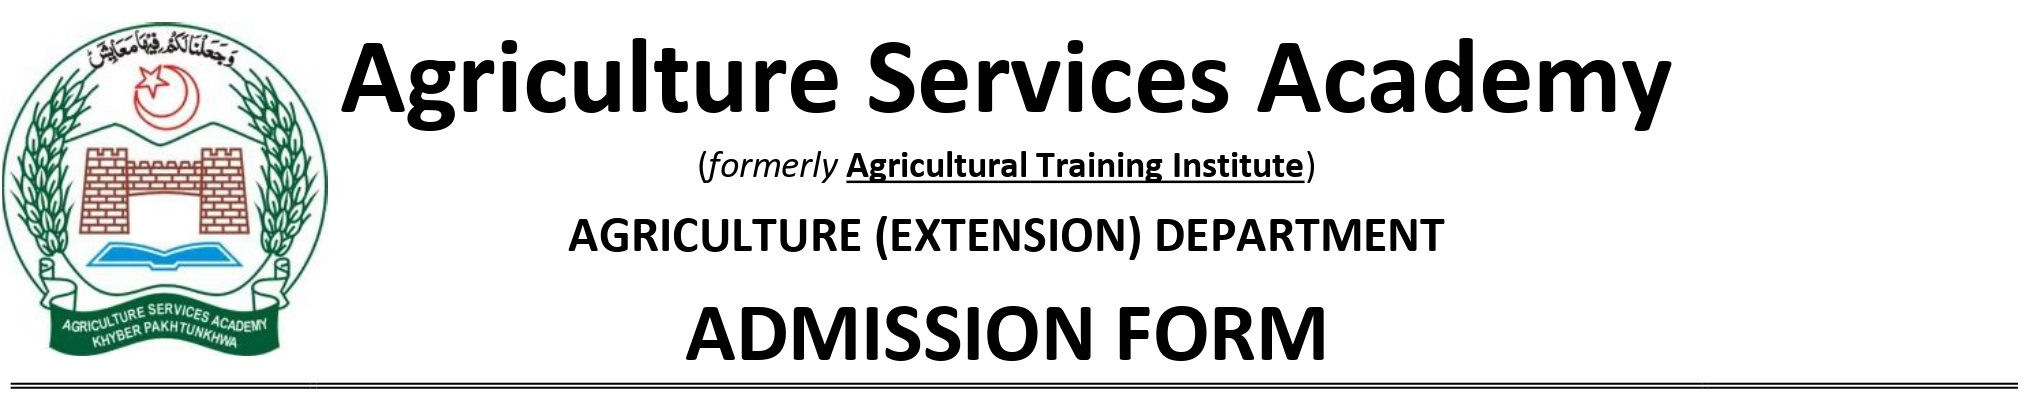
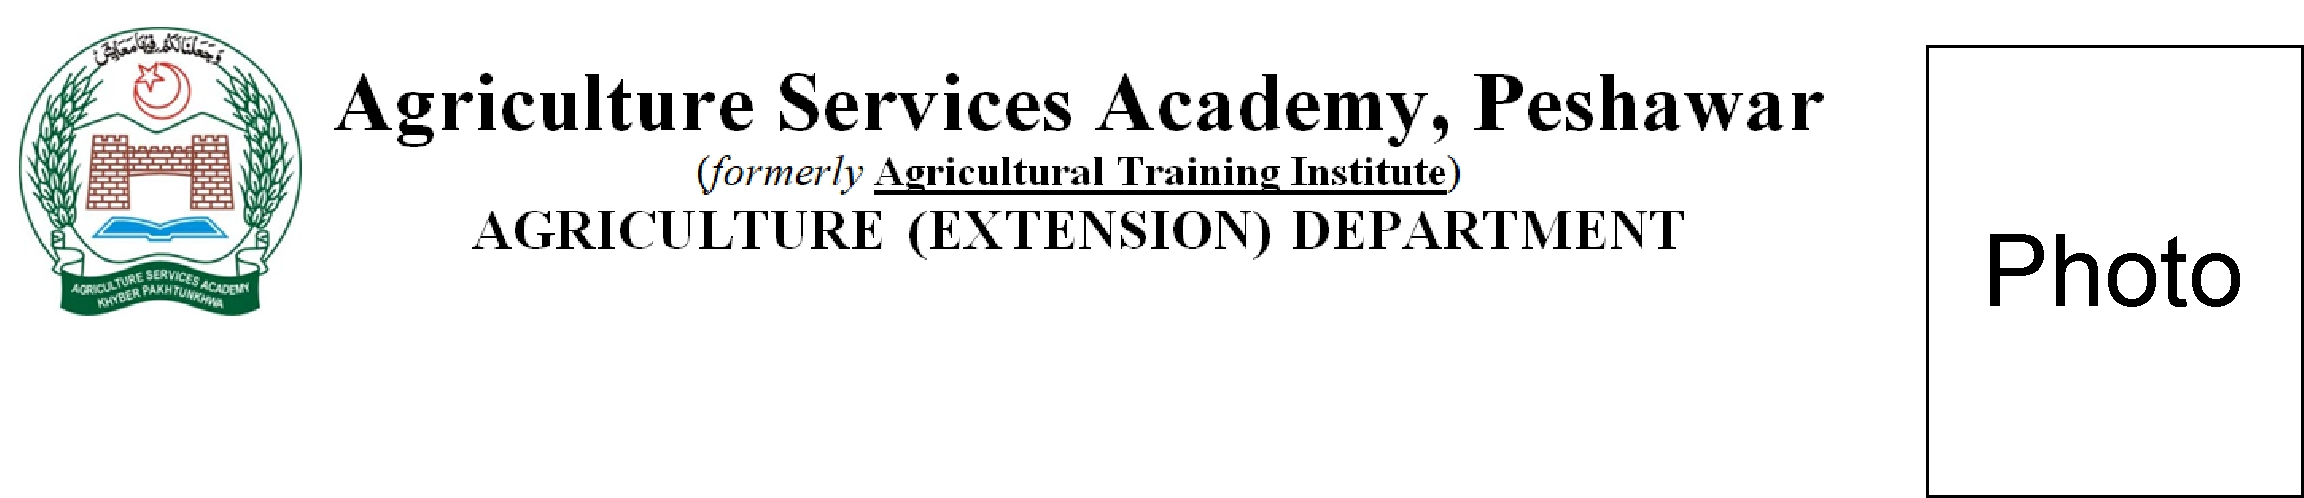
changes

Changed region(s): [[0.0, 0.0312, 0.84, 0.8729], [0.0, 0.0624, 1.0, 1.0], [0.3422, 0.717, 0.6533, 0.8729]]

diff --git a/public/form-style.css b/public/form-style.css
@@ -90,6 +90,7 @@ body {
     writing-mode: vertical-lr;
     transform: rotate(180deg); /* Correct orientation */
     margin: 0;
+    font-size: 12px;
 }
 
 .grid-container {
@@ -114,7 +115,7 @@ body {
 .grid-item {
     width: 140px !important;
     margin-right: 25px;
-    font-size: 16px;
+    font-size: 12px;
 }
 
 .underline {

diff --git a/resources/views/print-form.blade.php b/resources/views/print-form.blade.php
@@ -13,17 +13,17 @@
 <body>
 <div class="a4-page">
 	<div class="row">
-		<img src="{{asset('banner.png')}}" style="width: 100%;" alt="logo"/>
-		<div class="column col-80" style="margin-top: -30px;margin-right: -139px;">
+		<img src="{{asset('banner.jpg')}}" style="width: 98%;" alt="logo"/>
+		<div class="column col-80" style="margin-top: -95px;margin-right: -139px;">
 			<h1 style="text-align: center">ADMISSION FORM {{date('Y')}}</h1>
 			<ol>
 				<li>Admission Sought in: <b>{{ $application->project->diploma->name }}</b></li>
 				<li>Open Merit: <span class="tick-mark"></span></li>
 				<li><b>Quota Applied For:</b>
-					<ol class="list-disc list-inside" style="margin: 0px">
-						@foreach ($application->quotaName as $quotaName)
+					<ol class="list-disc list-inside"
+					    style="margin: 0px; display: flex; flex-wrap: wrap;">      @foreach ($application->quotaName as $quotaName)
 							@unless(str_contains($quotaName, 'Open'))
-								<li>{{ $quotaName }} <span class="tick-mark"></span></li>
+								<li style="flex-basis: 40%; padding-right: 20px;">{{ $quotaName }} <span class="tick-mark"></span></li>
 							@endunless
 						@endforeach
 					</ol>
@@ -33,11 +33,11 @@
 
 		</div>
 		<div class="column col-20">
-			<img src="{{$user->avatar}}" style="width: 135px;margin-top: -30px;border: 1px solid;border-radius: 10px;"
+			<img src="{{$user->avatar}}" style="width: 135px;margin-top: -159px;border: 1px solid;border-radius: 10px;"
 			     alt="{{$user->full_name}}"/>
 			<br>
-			<span style="font-size: 12px">	Application # {{{$application->application_number}}}<br>
-			Challan # {{{$application->challan_number}}}</span>
+			<span style="font-size: 12px">	Application # {{{strtoupper($application->application_number)}}}<br>
+			Challan # {{{strtoupper($application->challan_number)}}}</span>
 		</div>
 	</div>
 	<hr/>
@@ -45,36 +45,36 @@
 		<h3 class="heading">Domicile</h3>
 		<div class="grid-container">
 			<div class="grid-item">District/Domicile:</div>
-			<div class="grid-item underline">{{$user->userInfo->district->name}}</div>
+			<div class="grid-item underline">{{strtoupper($user->userInfo->district->name)}}</div>
 			<div class="grid-item">Province:</div>
-			<div class="grid-item underline">{{$user->userInfo->province->name}}</div>
+			<div class="grid-item underline">{{strtoupper($user->userInfo->province->name)}}</div>
 			<div class="grid-item"></div>
 			<div class="grid-item"></div>
 			<div class="grid-item">Nationality:</div>
-			<div class="grid-item underline">Pakistan</div>
+			<div class="grid-item underline">PAKISTAN</div>
 		</div>
 	</div>
 	<div class="container">
 		<h3 class="heading">Student</h3>
 		<div class="grid-container">
 			<div class="grid-item">Name:</div>
-			<div class="grid-item underline">{{$user->full_name}}</div>
+			<div class="grid-item underline">{{strtoupper($user->full_name)}}</div>
 			<div class="grid-item">Gender:</div>
-			<div class="grid-item underline">{{$user->userInfo->gender->name}}</div>
+			<div class="grid-item underline">{{strtoupper($user->userInfo->gender->name)}}</div>
 			<div class="grid-item">CNIC:</div>
 			<div class="grid-item underline">{{$user->cnic}}</div>
 			<div class="grid-item">Date Of Birth:</div>
 			<div class="grid-item underline inline-date">{{\Carbon\Carbon::parse($user->userInfo->dob)->format('d-m-Y')}}</div>
 			<div class="grid-item">Email:</div>
-			<div class="grid-item underline">{{$user->email}}</div>
+			<div class="grid-item underline">{{strtoupper($user->email)}}</div>
 			<div class="grid-item">Contact No:</div>
 			<div class="grid-item underline">{{$user->phone}}</div>
 			<div class="grid-item">Religion:</div>
 			<div class="grid-item underline">{{$user->userInfo->religion}}</div>
 			<div class="grid-item">Hostel Required:</div>
-			<div class="grid-item underline">{{$user->userInfo->hostel?'Yes':'No'}}</div>
+			<div class="grid-item underline">{{$user->userInfo->hostel?'YES':'NO'}}</div>
 			<div class="grid-item">Hafiz Quran:</div>
-			<div class="grid-item underline">{{$user->userInfo->hafiz_quran?'Yes':'No'}}</div>
+			<div class="grid-item underline">{{$user->userInfo->hafiz_quran?'YES':'NO'}}</div>
 			<div class="grid-item">Emergency #:</div>
 			<div class="grid-item underline">{{$user->userInfo->emegency_contact}}</div>
 		</div>
@@ -84,7 +84,7 @@
 		<h3 class="heading">Father</h3>
 		<div class="grid-container">
 			<div class="grid-item" style="font-size: 12px">Father's / Guardian Name:</div>
-			<div class="grid-item underline">{{$user->userInfo->father_name}}</div>
+			<div class="grid-item underline">{{strtoupper($user->userInfo->father_name)}}</div>
 			<div class="grid-item" style="font-size: 12px">Father's / Guardian Phone:</div>
 			<div class="grid-item underline">{{$user->userInfo->father_contact}}</div>
 		</div>
@@ -94,10 +94,10 @@
 		<h3 class="heading">Address</h3>
 		<div class="grid-container">
 			<div class="grid-item">Address:</div>
-			<div class="grid-item underline item-1" style="width: 100% !important;">{{$user->userInfo->address}}</div>
+			<div class="grid-item underline item-1" style="width: 100% !important;">{{strtoupper($user->userInfo->address)}}</div>
 			<div class="grid-item">Postal Address:</div>
 			<div class="grid-item underline item-1"
-			     style="width: 100% !important;">{{$user->userInfo->postal_address ?? $user->userInfo->address}}</div>
+			     style="width: 100% !important;">{{strtoupper($user->userInfo->postal_address ?? $user->userInfo->address)}}</div>
 		</div>
 	</div>
 
@@ -142,24 +142,34 @@
 				<ol>
 					<li>
 						1. &nbsp;Documents (2 copy)
-						<div class="checkbox"></div>
+
 					</li>
 					<li>
 						2. &nbsp; Recent Picture of Student (4 No.)
-						<div class="checkbox"></div>
-					</li>
 
+					</li>
+					<li>
+						3. &nbsp; Domicile Certificate (2 copy)
+
+					</li>
 				</ol>
 			</div>
 			<div class="column">
 				<ol>
-					<li>
-						3. &nbsp; Domicile Certificate (2 copy)
-						<div class="checkbox"></div>
-					</li>
+
 					<li>
 						4. &nbsp; CNIC/Form-B of Student (2 copy)
-						<div class="checkbox"></div>
+
+					</li>
+					<li>
+						5. &nbsp; Agreement Only not Affidavit
+
+					</li>
+					<li>
+
+						6. &nbsp; Selected Candidates submit migrations with original certificate within one month period from the date of
+						admission.
+
 					</li>
 				</ol>
 			</div>

diff --git a/resources/views/print-challan.blade.php b/resources/views/print-challan.blade.php
@@ -116,7 +116,7 @@
 								On Account Of
 							</td>
 							<td>
-								<em>Admission Fee
+								<em>Application Fee
 								</em>
 							</td>
 						</tr>
@@ -261,7 +261,7 @@
 								On Account Of
 							</td>
 							<td>
-								<em>Admission Fee
+								<em>Application Fee
 								</em>
 							</td>
 						</tr>
@@ -406,7 +406,7 @@
 								On Account Of
 							</td>
 							<td>
-								<em>Admission Fee
+								<em>Application Fee
 								</em>
 							</td>
 						</tr>

diff --git a/app/Livewire/StudentApply.php b/app/Livewire/StudentApply.php
@@ -70,11 +70,14 @@ class StudentApply extends Component
   
   public function getFirstLetter( $value )
   {
+    $excludedWords = array("In", "The", "Of", 'in', 'the', 'of');
     $words = explode( " ", $value );
     $acronym = "";
     
     foreach( $words as $w ) {
-      $acronym .= mb_substr( $w, 0, 1 );
+      if (!in_array($w, $excludedWords)) {
+        $acronym .= mb_substr($w, 0, 1);
+      }
     }
     return $acronym;
   }
